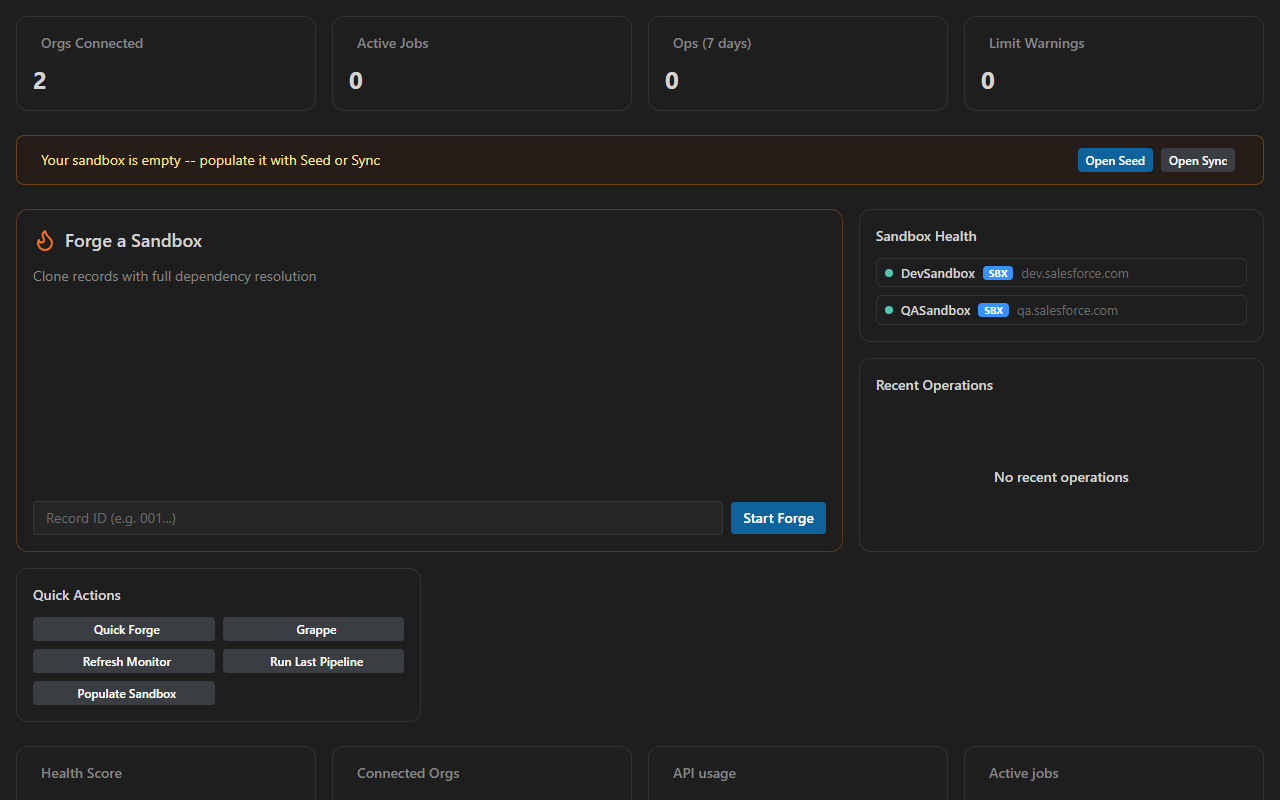
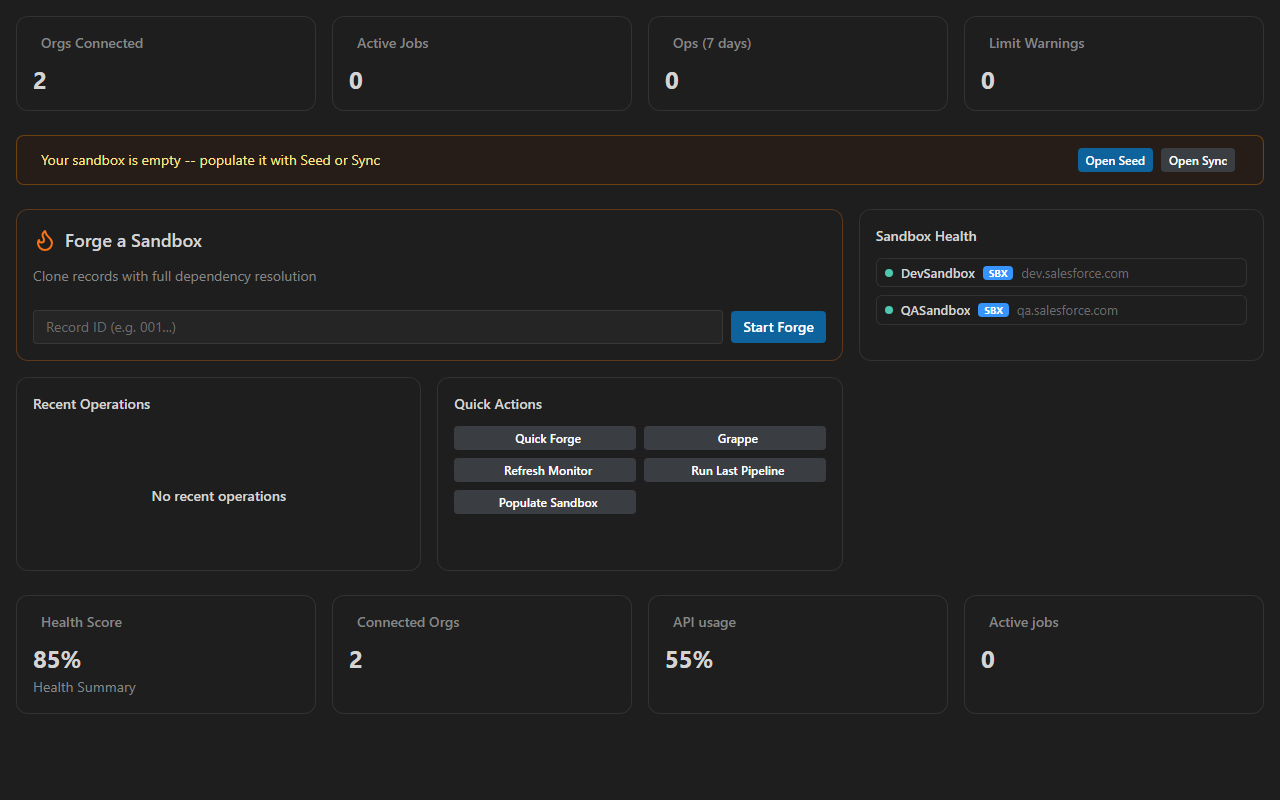
chore(release): v1.17.0 — a new mark, and 56 of the 69 medium findings
Screenshots regenerated against the post-sweep UI, which caught a real
one: Home's KPI row no longer fabricates a 100% health score and three
zeros, so the shot the fixture produced showed three blank skeletons.
The listing would have advertised a broken dashboard. The fixture answers
the health round trip now, and the shot shows real figures.

The assets gate needed a fix of its own. raw.githubusercontent serves
Cache-Control: max-age=300, so for five minutes after a push it compares
fresh local bytes against the previous published copy and reports drift
that no longer exists — it fails precisely the runs that sync and package
together, which is every release. The cache-buster is a per-run nonce,
deliberately not derived from the content: a content-keyed one caches the
stale response under the very key the next check reads, pinning the wrong
answer instead of expiring it.

7345 tests pass — 484 shared, 4050 extension, 2766 webview, 18 docs,
27 claim gates. Pre-publish gate green.

diff --git a/packages/webview/e2e/screenshots.spec.ts b/packages/webview/e2e/screenshots.spec.ts
@@ -201,7 +201,12 @@ test.describe('Marketplace Screenshots', () => {
   });
 
   test('home', async ({ page }) => {
-    await openModule(page, 'home');
+    const bridge = await openModule(page, 'home');
+    // Home's KPI row no longer fabricates zeros — it reads the same
+    // monitor:refresh round trip Monitor does, and renders skeletons until it
+    // answers. Leaving it unanswered shoots three blank cards.
+    await bridge.waitForMessage('monitor:refresh', { timeout: 10_000 });
+    await respondToAll(page, 'monitor:refresh', 'monitor:data', MOCK_HEALTH);
     await page.waitForSelector('[data-testid="home-page"]');
     await page.waitForSelector('[data-testid="forge-hero-card"]');
     await settle(page);

diff --git a/changelog.md b/changelog.md
@@ -5,6 +5,46 @@ All notable changes to SandForge will be documented in this file.
 The format is based on [Keep a Changelog](https://keepachangelog.com/en/1.1.0/),
 and this project adheres to [Semantic Versioning](https://semver.org/spec/v2.0.0.html).
 
+## [1.17.0] - 2026-08-13
+
+A new mark, and 56 of the 69 medium audit findings.
+
+### Changed
+
+- **New icon.** The anvil is replaced by fire in a hearth — heat inside a
+  container, which is what SandForge does to an empty sandbox. The old mark
+  pictured the tool and said nothing about filling anything. Both the
+  Marketplace icon and the activity-bar icon change; five other silhouettes
+  were drawn and rejected against this one at 20, 24, 42 and 96 px.
+
+### Accessibility
+
+- **Inputs have names.** Not one `<label>` in the entire UI was tied to its
+  input, so a screen reader announced 29 controls as unlabelled. Sortable
+  table headers and clickable rows now have keyboard paths, focus rings that
+  had been removed and never replaced are back, and the `aria-label`s that
+  were hardcoded English in a six-locale product are translated.
+
+### Fixed
+
+- **The record id you type on Home reaches the Forge form.** It was written
+  to the store and never read, so the shortcut ended with you retyping the
+  same 18 characters.
+- **Grappe's empty state points somewhere useful.** Its call to action opened
+  Forge, the one module that cannot produce a grappe run.
+- **The French UI has its accents back.** Roughly 15% of the French strings,
+  and the whole French Marketplace description, were written without them.
+- **AI error resolution answers the question.** The assistant was being given
+  instructions written for a different task, so it was told to refuse the very
+  input it always receives, and every failed operation was answered with
+  "Unable to determine root cause."
+
+### Removed
+
+- A `sandforge.grappe.maxWorkers` setting that promised parallelism the
+  product does not have. Nothing read it.
+- 47 modules the UI stopped rendering releases ago.
+
 ## [1.16.0] - 2026-08-13
 
 Three findings the last audit rated high, and the discovery that the

diff --git a/packages/extension/CHANGELOG.md b/packages/extension/CHANGELOG.md
@@ -5,6 +5,46 @@ All notable changes to SandForge will be documented in this file.
 The format is based on [Keep a Changelog](https://keepachangelog.com/en/1.1.0/),
 and this project adheres to [Semantic Versioning](https://semver.org/spec/v2.0.0.html).
 
+## [1.17.0] - 2026-08-13
+
+A new mark, and 56 of the 69 medium audit findings.
+
+### Changed
+
+- **New icon.** The anvil is replaced by fire in a hearth — heat inside a
+  container, which is what SandForge does to an empty sandbox. The old mark
+  pictured the tool and said nothing about filling anything. Both the
+  Marketplace icon and the activity-bar icon change; five other silhouettes
+  were drawn and rejected against this one at 20, 24, 42 and 96 px.
+
+### Accessibility
+
+- **Inputs have names.** Not one `<label>` in the entire UI was tied to its
+  input, so a screen reader announced 29 controls as unlabelled. Sortable
+  table headers and clickable rows now have keyboard paths, focus rings that
+  had been removed and never replaced are back, and the `aria-label`s that
+  were hardcoded English in a six-locale product are translated.
+
+### Fixed
+
+- **The record id you type on Home reaches the Forge form.** It was written
+  to the store and never read, so the shortcut ended with you retyping the
+  same 18 characters.
+- **Grappe's empty state points somewhere useful.** Its call to action opened
+  Forge, the one module that cannot produce a grappe run.
+- **The French UI has its accents back.** Roughly 15% of the French strings,
+  and the whole French Marketplace description, were written without them.
+- **AI error resolution answers the question.** The assistant was being given
+  instructions written for a different task, so it was told to refuse the very
+  input it always receives, and every failed operation was answered with
+  "Unable to determine root cause."
+
+### Removed
+
+- A `sandforge.grappe.maxWorkers` setting that promised parallelism the
+  product does not have. Nothing read it.
+- 47 modules the UI stopped rendering releases ago.
+
 ## [1.16.0] - 2026-08-13
 
 Three findings the last audit rated high, and the discovery that the

diff --git a/packages/extension/README.md b/packages/extension/README.md
@@ -1,7 +1,7 @@
 # SandForge: Salesforce DevOps Toolkit
 
 <!-- badges:start -->
-[![Version](https://img.shields.io/badge/version-1.16.0-blue)](https://marketplace.visualstudio.com/items?itemName=StephaneBerthoz.sandforge)
+[![Version](https://img.shields.io/badge/version-1.17.0-blue)](https://marketplace.visualstudio.com/items?itemName=StephaneBerthoz.sandforge)
 ![TypeScript](https://img.shields.io/badge/typescript-strict-blue)
 ![License](https://img.shields.io/badge/license-MIT-green)
 ![Languages](https://img.shields.io/badge/i18n-6%20languages-orange)

diff --git a/README.md b/README.md
@@ -1,7 +1,7 @@
 # SandForge: Salesforce DevOps Toolkit
 
 <!-- badges:start -->
-![Version](https://img.shields.io/badge/version-1.16.0-blue)
+![Version](https://img.shields.io/badge/version-1.17.0-blue)
 [![CI](https://github.com/StephaneBerthoz/sand-forge/actions/workflows/ci.yml/badge.svg)](https://github.com/StephaneBerthoz/sand-forge/actions/workflows/ci.yml)
 ![TypeScript](https://img.shields.io/badge/typescript-strict-blue)
 ![License](https://img.shields.io/badge/license-MIT-green)
